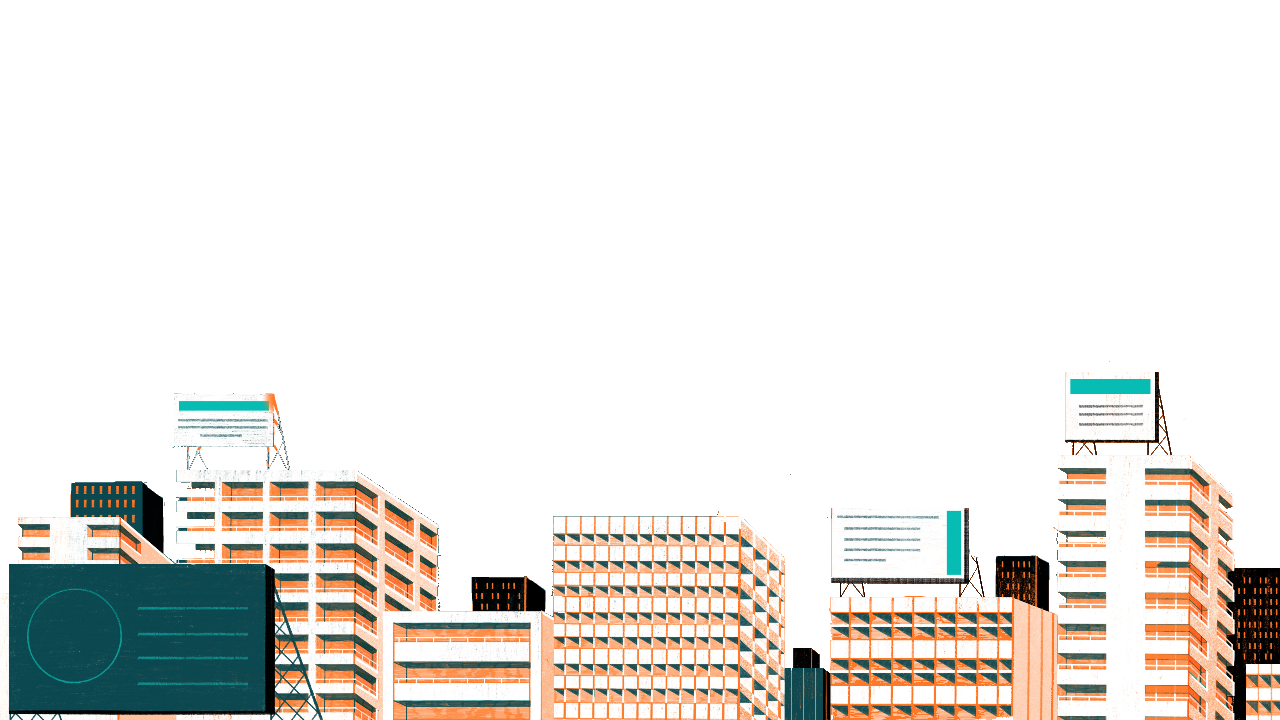
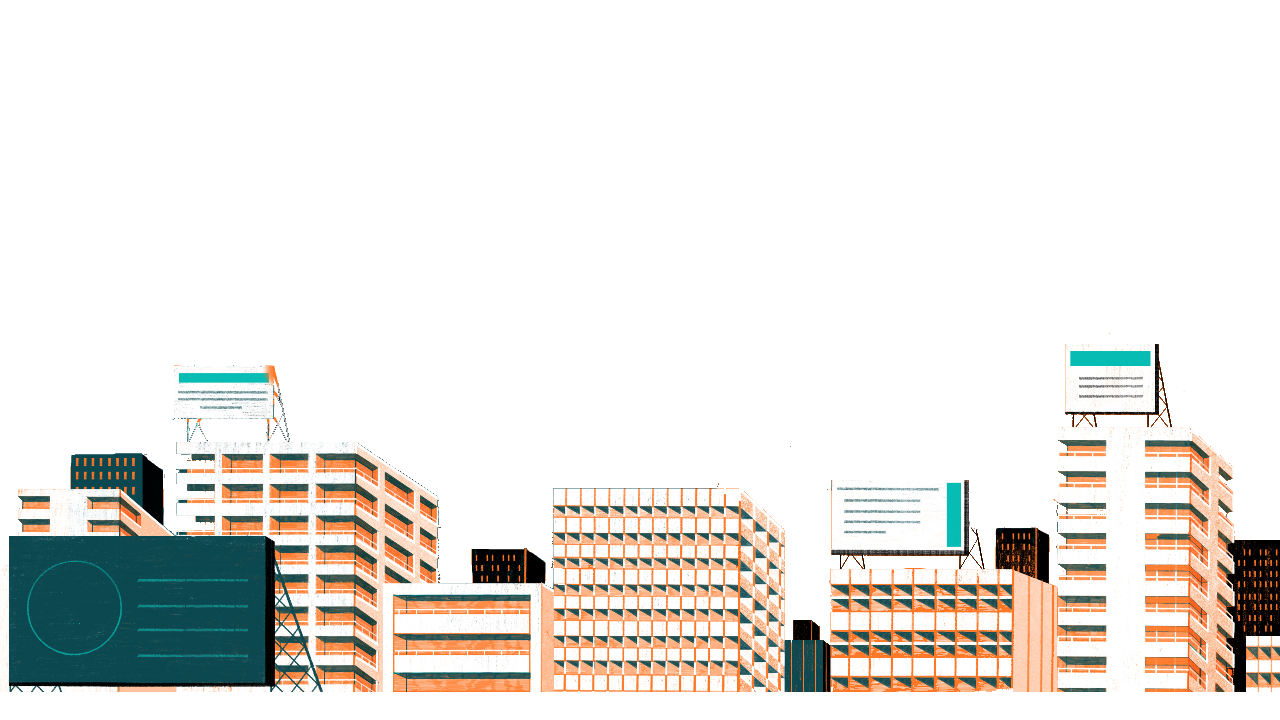
wip button home hover effect

Changed region(s): [[0.0, 0.4889, 1.0, 1.0]]

diff --git a/AngularServer/src/app/home/home.component.css b/AngularServer/src/app/home/home.component.css
@@ -7,6 +7,7 @@ section img{
     width: 100%;
     height: 100vh;
     padding: 0px;
+    left: 0%;
     object-fit:contain;
     background-size: cover;
     background-attachment: fixed;
@@ -24,26 +25,30 @@ section img#gzl{
 section img#bc{
     z-index: 9;
 }
+h1{
+    top: 105%;
+    position: absolute;
+    left: 50%;
+    transform: translate(-50%, -50%);
+    justify-content: center;
+    align-content: center;
+    font-family:'the_stoothgartregular';
+    font-size: 60px;
+    z-index: 30;
+}
 .row {
     position:absolute;
     display:flex;
     flex-wrap: wrap;
     border-radius: 15px;
-    top: 90%;
+    top: 120%;
     left: 50%;
     transform: translate(-50%, -50%);
     justify-content: center;
     align-content: center;
     z-index: 22;
 }
-h1{
-    top: 75%;
-    position: absolute;
-    font-family:'the_stoothgartregular';
-    font-size: 60px;
-    z-index: 30;
-}
-.btn{
+#btn{
     width: 300px;
     height: 120px;
     border-radius: 15px;
@@ -52,10 +57,11 @@ h1{
     justify-content: center;
     align-content: center;
 
-    background-color: rgba(255,255,255,0.1);
-    border: 1px solid rgba(255, 120, 39, 0.4);
-    backdrop-filter: blur(30px);
-    color: rgba(255, 120, 39, 0.8);
+    background-image: linear-gradient(RGB(241, 243, 181),RGB(20, 80, 89));
+    background-size: cover;
+    background-attachment: fixed;
+    overflow: hidden;
+    color: rgba(255, 255, 255);
     font-family:'the_stoothgartregular';
     font-size: 60px;
     text-decoration:none; 
@@ -63,4 +69,11 @@ h1{
 
     cursor: pointer;
     z-index: 21;
+}
+#btn:hover {
+    background-image:linear-gradient(rgba(7, 152, 149),rgba(255, 120, 39));
+    background-clip: text;
+    -webkit-text-fill-color: transparent;
+    border: 1px solid rgba(13, 59, 66);
+
 }

diff --git a/AngularServer/src/app/home/home.component.html b/AngularServer/src/app/home/home.component.html
@@ -1,19 +1,22 @@
-<div class="container position-relative">
+<div class="container position: relative">
     <section class="mx-auto d-block">
         <img [src]="cvr_white" id="white" class="image">
         <img [src]="bc_level" id="bc" class="image">
         <img [src]="gzl_level" id="gzl" class="image">
         <img [src]="city_level" id="city" class="image">
     </section>
-    <h1 class="text-center">TUTTO CIO' CHE CERCHIO IN UN SOLO SITO</h1>
-
-    <div class="row">
-        <div class="col-lg-6 ">
-            <a class="btn" type="submit" [routerLink]="['/TipoRicercaManga']">Manga</a>
+    
+        <h1 class="text-center">
+            TUTTO CIO' CHE CERCHIO IN UN SOLO SITO
+        </h1>
+        
+        <div class="row">
+            <div class="col-lg-6 ">
+                    <a class="btn" id="btn" type="submit" [routerLink]="['/TipoRicercaManga']">Manga</a>
+            </div>
+            <div class="col-lg-6">
+                <a class="btn" id="btn" type="submit" [routerLink]="['/TipoRicercaAnime']">Anime</a>
+            </div>
         </div>
-        <div class="col-lg-6">
-            <a class="btn" type="submit" [routerLink]="['/TipoRicercaAnime']">Anime</a>
-        </div>
-    </div>
 </div>
 <router-outlet></router-outlet>

diff --git a/AngularServer/src/app/home/home.component.ts b/AngularServer/src/app/home/home.component.ts
@@ -10,10 +10,14 @@ export class HomeComponent {
   gzl_level: string;
   bc_level: string;
   cvr_white: string;
+  manga_bc: string;
+  anime_bc:string;
 constructor(){
   this.city_level = 'assets/images/godizlla level1.png'
   this.gzl_level = 'assets/images/godizlla level2.png'
   this.bc_level = 'assets/images/godzilla level3.png'
   this.cvr_white = 'assets/images/white-cover-home.png'
+  this.manga_bc = './assets/images/manga-bc.png'
+  this.anime_bc = './assets/images/anime-bc.png'
 }
 }
